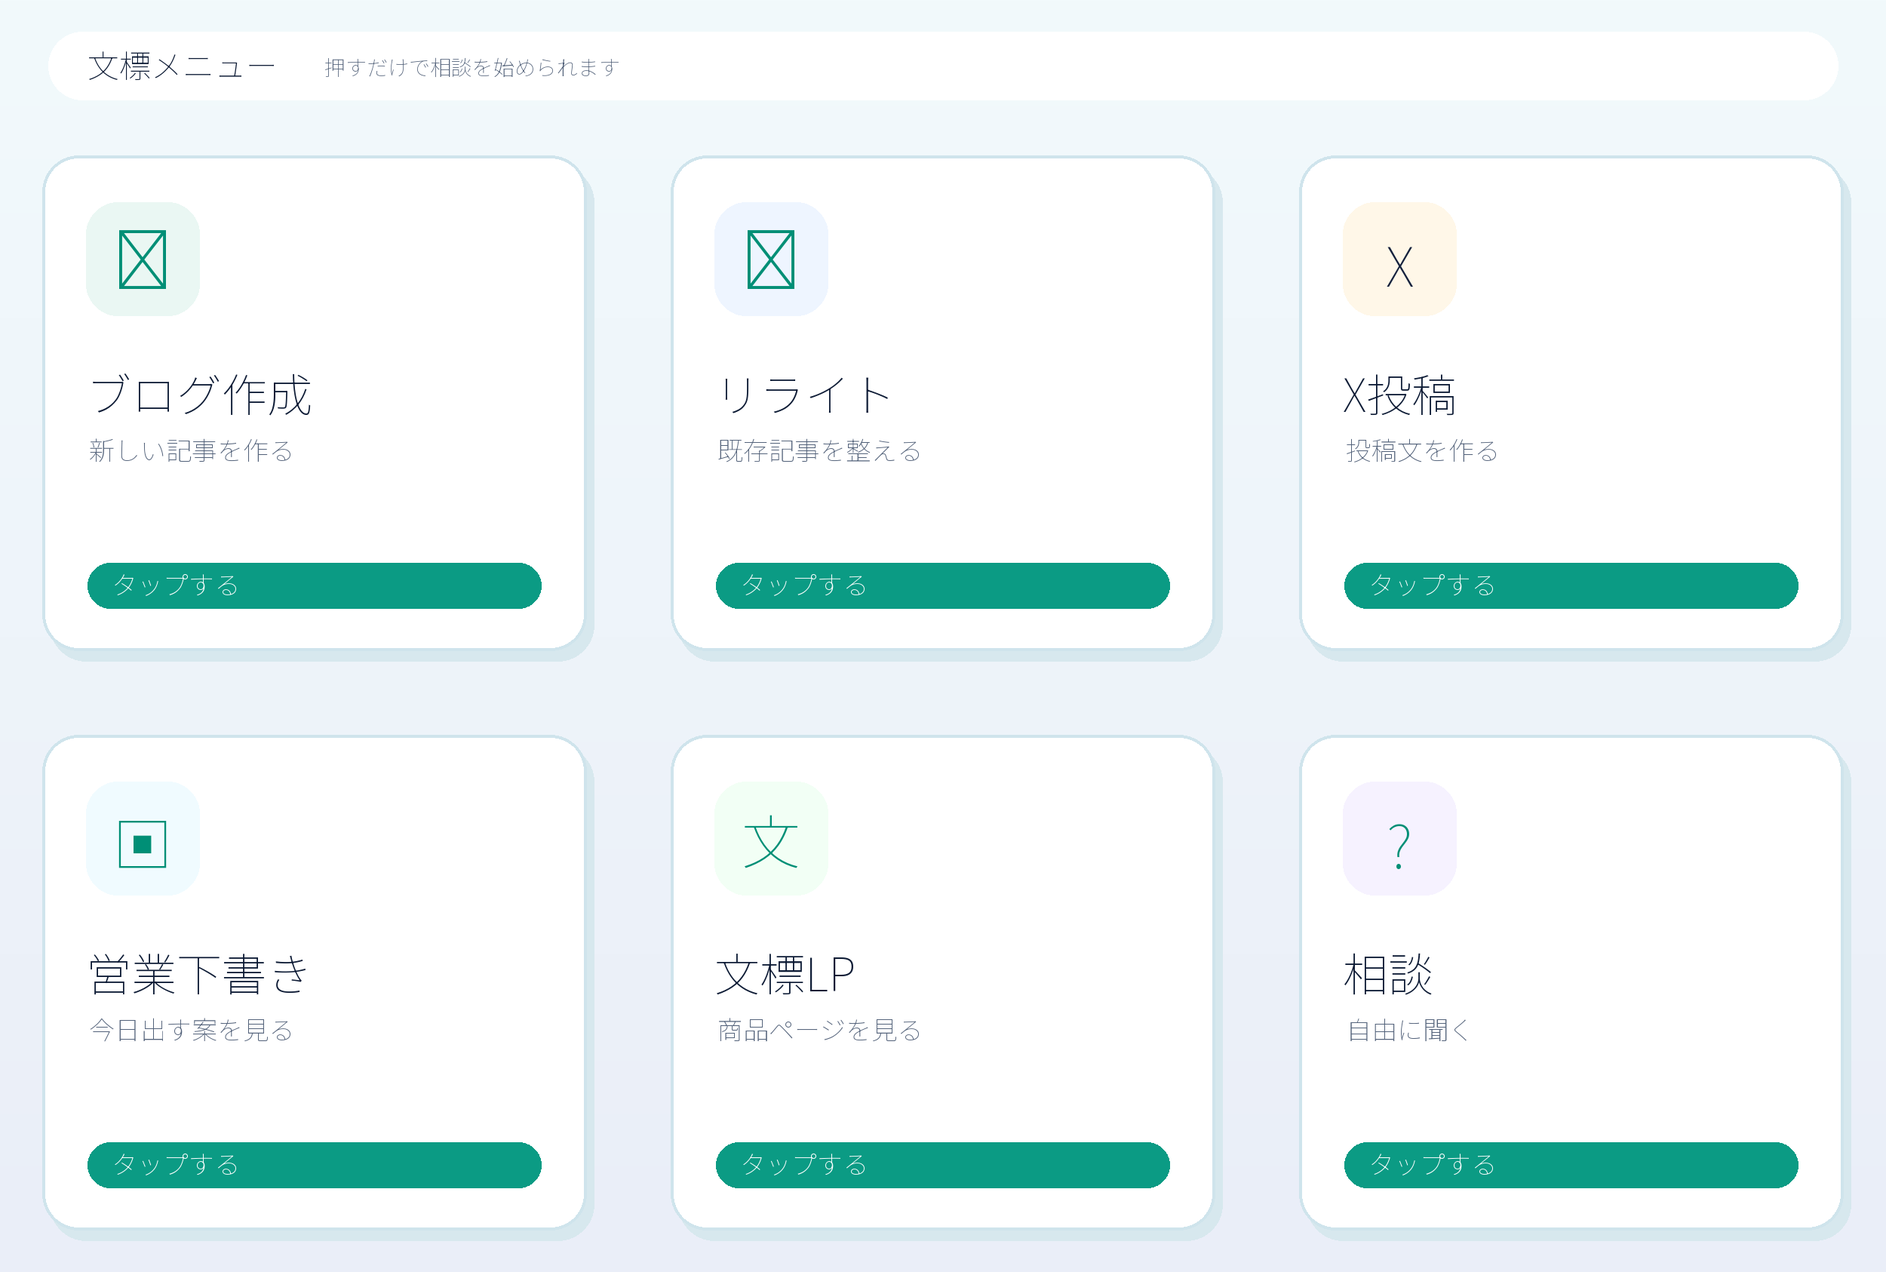
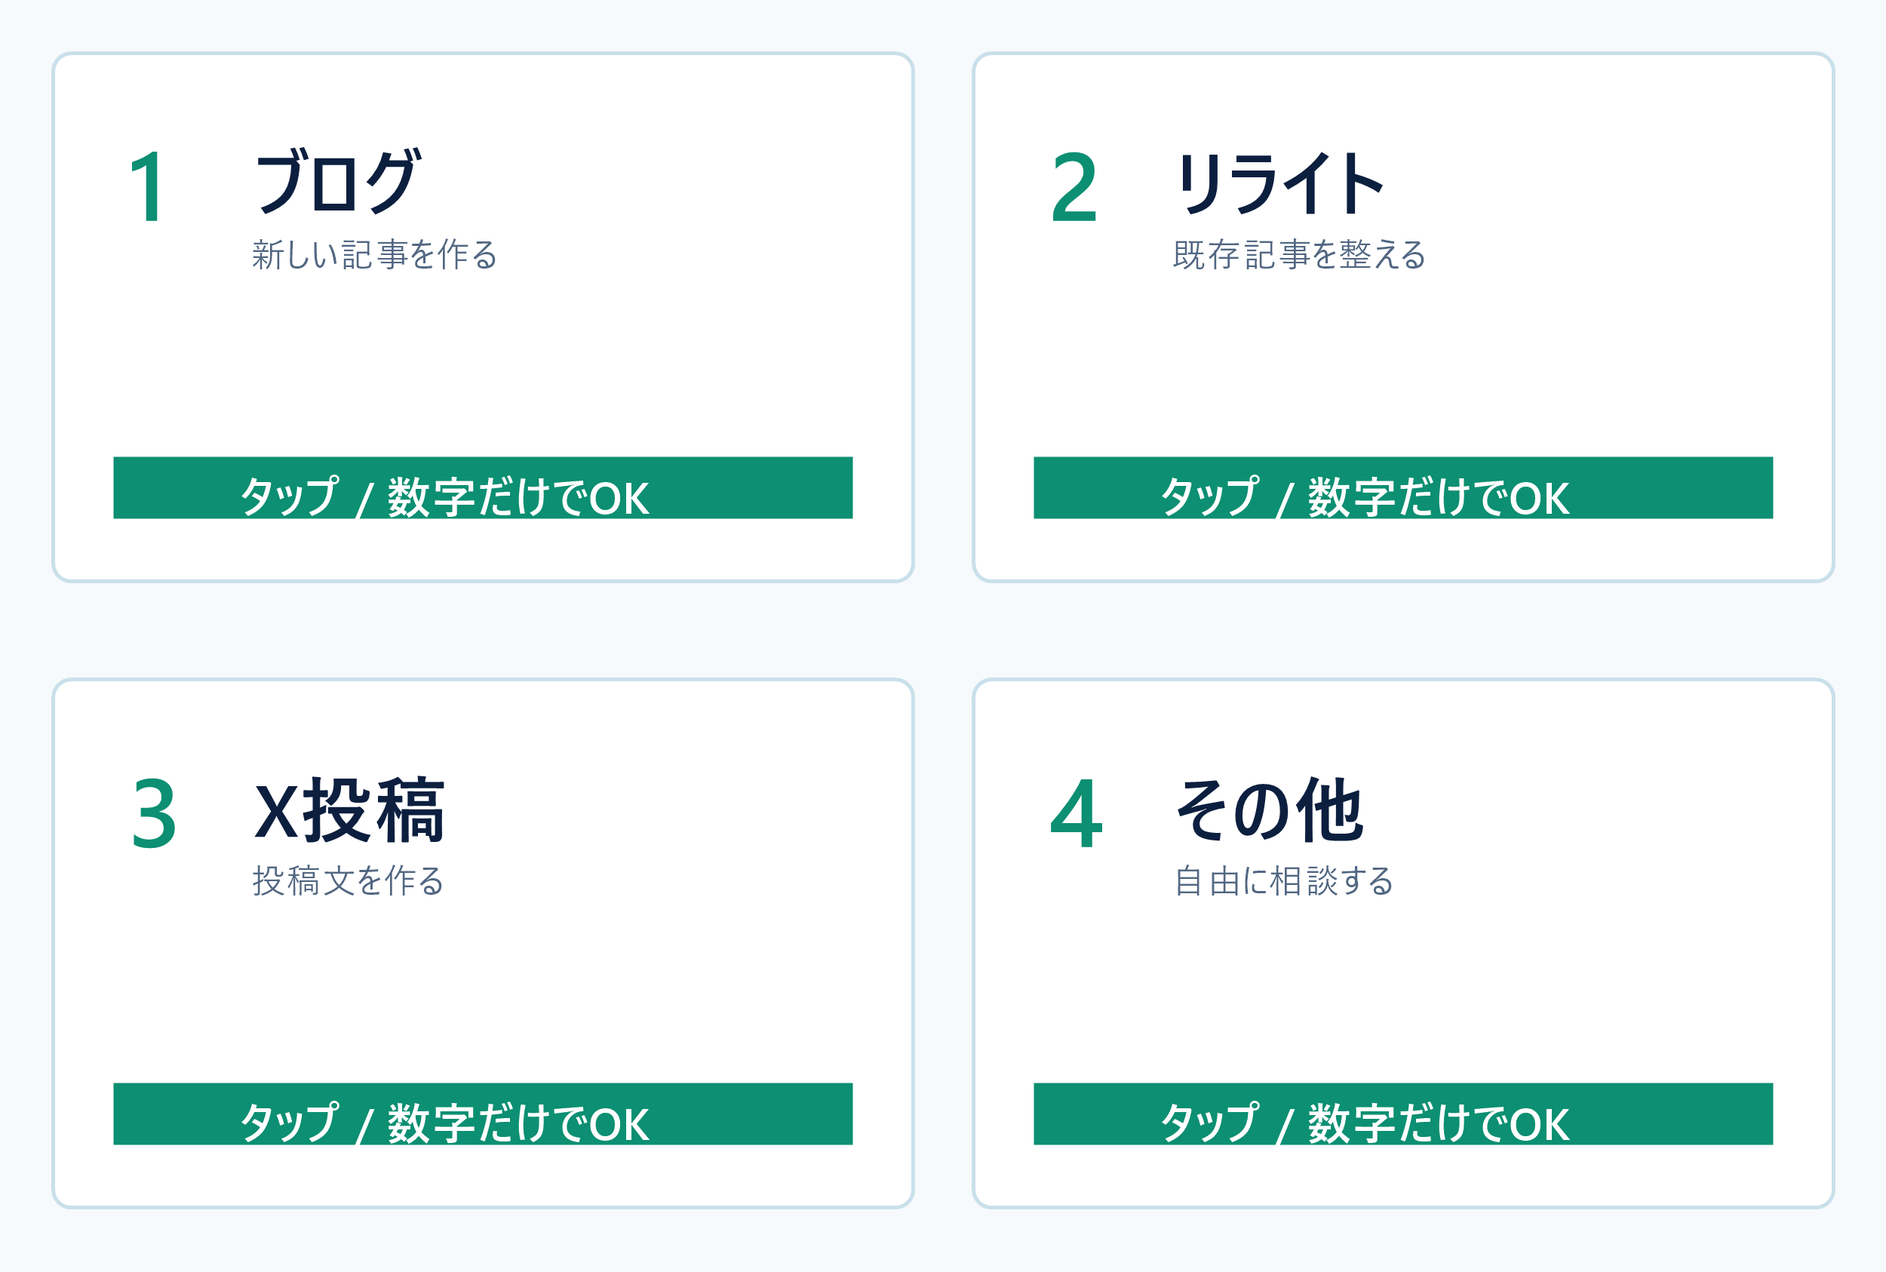
Simplify LINE menu and numbered flows

diff --git a/functions/api/line-webhook.js b/functions/api/line-webhook.js
@@ -164,6 +164,13 @@ function menuQuickReply() {
   ]);
 }
 
+function flowQuickReply(number, field, conversationText = "") {
+  return quickReply(flowOptions(number, field, conversationText).map((option, index) => ({
+    label: `${index + 1} ${option.short || option.value || option.label}`,
+    text: String(index + 1),
+  })));
+}
+
 function proceedQuickReply() {
   return quickReply([
     { label: "作業OK", text: "OK" },
@@ -189,50 +196,153 @@ function followUpQuestions(number) {
 
 const QUESTION_FLOWS = {
   1: [
-    ["記事テーマ", "記事テーマは何にする？"],
-    ["読む人", "読む人は誰にする？ 例: WordPress初心者、個人事業主、ブログ初心者"],
-    ["画像数", "画像は何個入れる？ 0 / 1 / 3 / 5 / おまかせ"],
-    ["画像タイプ", "画像タイプは？ アイキャッチ / 図解 / 操作イメージ / 比較表風 / おまかせ / なし"],
-    ["画像の雰囲気", "画像の雰囲気は？ 文標っぽく / やわらかい / 実務寄り / シンプル / おまかせ / なし"],
-    ["画像の入れ方", "画像はどこに入れる？ 冒頭だけ / セクションごと / 本文内に自然に / おまかせ / なし"],
-    ["文字量", "文字量はどうする？ 短め / 標準 / 長め"],
-    ["CTA", "最後の誘導はどれにする？ 文標購入 / デモを見る / 問い合わせ / なし"],
+    ["記事テーマ", "記事テーマを選んで。"],
+    ["読む人", "読む人を選んで。"],
+    ["画像数", "画像は何個入れる？"],
+    ["画像タイプ", "画像タイプを選んで。"],
+    ["画像の雰囲気", "画像の雰囲気を選んで。"],
+    ["画像の入れ方", "画像を入れる場所を選んで。"],
+    ["文字量", "文字量を選んで。"],
+    ["CTA", "最後の誘導を選んで。"],
   ],
   2: [
-    ["対象URLまたは記事名", "リライトする記事のURLか記事名を送って。"],
-    ["目的", "目的はどれ？ 読みやすく / 売れる導線 / SEO/AIO / 古い情報修正"],
-    ["画像追加", "画像は増やす？ なし / 1枚 / 3枚 / おまかせ"],
-    ["画像タイプ", "画像タイプは？ アイキャッチ / 図解 / 操作イメージ / 比較表風 / おまかせ / なし"],
-    ["画像の雰囲気", "画像の雰囲気は？ 文標っぽく / やわらかい / 実務寄り / シンプル / おまかせ / なし"],
-    ["残したい表現", "残したい表現はある？ なければ「なし」でOK。"],
-    ["消したい表現", "消したい表現はある？ なければ「なし」でOK。"],
+    ["対象URLまたは記事名", "リライトする記事を選んで。"],
+    ["目的", "目的を選んで。"],
+    ["画像追加", "画像は増やす？"],
+    ["画像タイプ", "画像タイプを選んで。"],
+    ["画像の雰囲気", "画像の雰囲気を選んで。"],
+    ["残したい表現", "残したい表現を選んで。"],
+    ["消したい表現", "消したい表現を選んで。"],
   ],
   3: [
-    ["宣伝したいもの", "宣伝したいものはどれ？ 文標 / ブログ / 記事メーカー / 980円レビュー"],
-    ["投稿数", "投稿数は？ 1 / 3 / 5 / 10"],
-    ["トーン", "トーンは？ やわらかめ / 強め / 実務寄り / 開発ログ風"],
-    ["画像", "画像は入れる？ なし / 1枚 / カルーセル案"],
-    ["画像タイプ", "画像タイプは？ アイキャッチ風 / 図解 / 操作イメージ / カルーセル構成 / おまかせ / なし"],
-    ["画像の雰囲気", "画像の雰囲気は？ 文標っぽく / やわらかい / 実務寄り / シンプル / おまかせ / なし"],
-    ["リンク先", "リンク先は？ トップ / 文標LP / デモ / ブログ"],
+    ["宣伝したいもの", "宣伝したいものを選んで。"],
+    ["投稿数", "投稿数を選んで。"],
+    ["トーン", "トーンを選んで。"],
+    ["画像", "画像を入れる？"],
+    ["画像タイプ", "画像タイプを選んで。"],
+    ["画像の雰囲気", "画像の雰囲気を選んで。"],
+    ["リンク先", "リンク先を選んで。"],
   ],
   4: [
-    ["やりたいこと", "やりたいことをそのまま送って。"],
-    ["目的", "目的は何？ 売上 / 分かりやすさ / SEO/AIO / デザイン / その他"],
-    ["画像", "画像は必要？ なし / 1枚 / 複数"],
-    ["画像の雰囲気", "画像の雰囲気は？ 文標っぽく / やわらかい / 実務寄り / シンプル / おまかせ / なし"],
+    ["やりたいこと", "やりたいことを選んで。"],
+    ["目的", "目的を選んで。"],
+    ["画像", "画像は必要？"],
+    ["画像の雰囲気", "画像の雰囲気を選んで。"],
   ],
 };
+
+const BLOG_TOPIC_PAGES = [
+  [
+    "AI検索時代の記事構造の作り方",
+    "無料テーマと文標の違い",
+    "比較記事テンプレートの使い方",
+    "FAQと出典を本文に置く理由",
+    "WordPressテーマ導入前チェック",
+    "商品紹介記事でよくある失敗",
+    "ブログカードの使い方",
+    "CTAを置く場所の考え方",
+    "比較表カードで違いを見せる方法",
+    "文標の初期設定ガイド",
+  ],
+  [
+    "AI文章をブログで使う時の注意点",
+    "検索順位を保証しないテーマ選び",
+    "ブログ初心者が最初に作る5記事",
+    "FAQ記事の書き方",
+    "レビュー記事の型と注意点",
+    "ランキング記事で誤解を減らす方法",
+    "出典リンクの置き方",
+    "内部リンクを増やす前に見ること",
+    "WordPressを軽く保つ考え方",
+    "文標の導線確認で見る数字",
+  ],
+  [
+    "小さなサービスLPをWordPressで作る流れ",
+    "アフィリエイト記事の比較表設計",
+    "ブログで売り込みすぎないCTAの作り方",
+    "AI検索時代の著者情報の見せ方",
+    "古い記事を直す順番",
+    "スマホで読みやすい記事構成",
+    "構造化データを入れすぎない考え方",
+    "WordPressテーマ変更前のバックアップ",
+    "文標で作る商品紹介記事",
+    "記事公開前チェックリスト",
+  ],
+];
+
+const FIELD_OPTIONS = {
+  "読む人": ["WordPress初心者", "個人事業主", "比較記事を書く人", "アフィリエイト初心者", "小さなサービス販売者", "ブログ再開組", "AI文章を使う人", "サイトを軽くしたい人", "FAQを増やしたい人", "おまかせ"],
+  "画像数": ["0枚", "1枚", "3枚", "5枚", "おまかせ"],
+  "画像タイプ": ["アイキャッチ", "図解", "操作イメージ", "比較表風", "カード風", "おまかせ", "なし"],
+  "画像の雰囲気": ["文標っぽく", "やわらかい", "実務寄り", "シンプル", "明るめ", "落ち着き", "おまかせ", "なし"],
+  "画像の入れ方": ["冒頭だけ", "セクションごと", "本文内に自然に", "最後にまとめ", "おまかせ", "なし"],
+  "文字量": ["短め", "標準", "長め", "かなり詳しく", "おまかせ"],
+  "CTA": ["文標購入", "デモを見る", "インストール方法", "問い合わせ", "ブログ一覧", "なし"],
+  "対象URLまたは記事名": ["文標導入前チェック", "無料テーマと文標の違い", "AI検索向けFAQと出典", "比較記事テンプレート", "商品ページ失敗例", "記事メーカーの使い方", "980円レビューサンプル", "ブログ一覧から選ぶ", "おまかせ", "その他URL入力"],
+  "目的": ["売上", "分かりやすさ", "SEO/AIO", "デザイン", "古い情報修正", "読みやすく", "導線改善", "おまかせ"],
+  "画像追加": ["なし", "1枚", "3枚", "おまかせ"],
+  "残したい表現": ["今の見出し", "価格訴求", "AI検索時代の表現", "文標の名前", "やわらかい文体", "なし", "その他入力"],
+  "消したい表現": ["強すぎる効果保証", "売り手目線", "古い商品名", "長すぎる説明", "なし", "その他入力"],
+  "宣伝したいもの": ["文標", "ブログ", "記事メーカー", "980円レビュー", "アフィリエイト", "今日の更新", "おまかせ"],
+  "投稿数": ["1投稿", "3投稿", "5投稿", "10投稿", "スレッド案", "おまかせ"],
+  "トーン": ["やわらかめ", "強め", "実務寄り", "開発ログ風", "短く", "共感寄り", "おまかせ"],
+  "画像": ["なし", "1枚", "3枚", "カルーセル案", "おまかせ"],
+  "リンク先": ["トップ", "文標LP", "デモ", "インストール方法", "ブログ", "問い合わせ", "おまかせ"],
+  "やりたいこと": ["サイト修正", "文標テーマ修正", "ブログ相談", "X投稿相談", "売り方相談", "不具合確認", "速度/SEO確認", "その他入力"],
+};
+
+function optionPage(body, field) {
+  let page = 1;
+  for (const match of body.matchAll(/<!-- line-option-page:([^:]+):(\d+) -->/g)) {
+    if (match[1] === field) page = Number(match[2]) || 1;
+  }
+  return page;
+}
+
+function optionLabel(value) {
+  return String(value).replace(/[。、「」]/g, "").slice(0, 14);
+}
+
+function flowOptions(number, field, conversationText = "") {
+  if (number === 1 && field === "記事テーマ") {
+    const page = optionPage(conversationText, field);
+    const topics = BLOG_TOPIC_PAGES[(page - 1) % BLOG_TOPIC_PAGES.length];
+    return [
+      ...topics.map((topic) => ({ value: topic, short: optionLabel(topic) })),
+      { value: "別案を10個見る", short: "別案10個", action: "more" },
+      { value: "その他入力", short: "その他入力", action: "custom" },
+      { value: "キャンセル", short: "キャンセル", action: "cancel" },
+    ];
+  }
+
+  const values = FIELD_OPTIONS[field] || ["おまかせ", "その他入力"];
+  const items = values.map((value) => {
+    const action = /その他|入力/.test(value) ? "custom" : "";
+    return { value, short: optionLabel(value), action };
+  });
+  return [...items, { value: "キャンセル", short: "キャンセル", action: "cancel" }];
+}
+
+function formatNumberedOptions(options) {
+  return options.map((option, index) => `${index + 1}. ${option.value}`).join("\n");
+}
+
+function formatFlowQuestion(number, field, question, step, total, conversationText = "") {
+  const options = flowOptions(number, field, conversationText);
+  return [
+    `質問 ${step}/${total}`,
+    question,
+    "",
+    formatNumberedOptions(options),
+    "",
+    "番号だけで選べます。",
+  ].join("\n");
+}
 
 function firstStepQuestion(number) {
   const flow = QUESTION_FLOWS[number];
   if (!flow) return "";
-  return [
-    `質問 1/${flow.length}`,
-    flow[0][1],
-    "",
-    "途中でやめるなら「キャンセル」と送って。",
-  ].join("\n");
+  return formatFlowQuestion(number, flow[0][0], flow[0][1], 1, flow.length);
 }
 
 function selectedFlowNumber(body = "") {
@@ -262,6 +372,98 @@ function nextFlowQuestion(body = "") {
     question: flow[index][1],
     step: index + 1,
     total: flow.length,
+  };
+}
+
+function awaitingCustomField(body, field) {
+  return body.includes(`<!-- line-await-custom:${field} -->`) && !answeredFields(body).has(field);
+}
+
+function selectedFlowAnswer(text, flowQuestion, conversationText) {
+  if (awaitingCustomField(conversationText, flowQuestion.field)) {
+    return { value: text.trim(), action: "" };
+  }
+
+  const options = flowOptions(flowQuestion.number, flowQuestion.field, conversationText);
+  const match = text.trim().match(/^(\d{1,2})(?:\s*(?:番|で|にする|お願い|おねがい|進めて|すすめて|やって|ok|OK|でOK))?$/);
+  if (match) {
+    const index = Number(match[1]) - 1;
+    return options[index] || null;
+  }
+
+  const compact = compactText(text);
+  return options.find((option) => compactText(option.value) === compact || compactText(option.short || "") === compact) || null;
+}
+
+async function answerFlowQuestion(env, issue, flowQuestion, text, conversationText) {
+  const selected = selectedFlowAnswer(text, flowQuestion, conversationText);
+  if (!selected) {
+    return {
+      issue,
+      mode: "質問中",
+      message: formatFlowQuestion(flowQuestion.number, flowQuestion.field, flowQuestion.question, flowQuestion.step, flowQuestion.total, conversationText),
+      quickReply: flowQuickReply(flowQuestion.number, flowQuestion.field, conversationText),
+    };
+  }
+
+  if (selected.action === "cancel") {
+    await commentOnIssue(env, issue.number, "LINEでキャンセルされました。");
+    return {
+      issue,
+      mode: "キャンセル",
+      message: "キャンセルしました。もう一度始める時はメニューから選んで。",
+      quickReply: menuQuickReply(),
+    };
+  }
+
+  if (selected.action === "more") {
+    const nextPage = optionPage(conversationText, flowQuestion.field) + 1;
+    const nextText = `${conversationText}\n<!-- line-option-page:${flowQuestion.field}:${nextPage} -->`;
+    await commentOnIssue(env, issue.number, [
+      `LINEで ${flowQuestion.field} の別案が選ばれました。`,
+      `<!-- line-option-page:${flowQuestion.field}:${nextPage} -->`,
+    ].join("\n"));
+    return {
+      issue,
+      mode: "別案",
+      message: formatFlowQuestion(flowQuestion.number, flowQuestion.field, flowQuestion.question, flowQuestion.step, flowQuestion.total, nextText),
+      quickReply: flowQuickReply(flowQuestion.number, flowQuestion.field, nextText),
+    };
+  }
+
+  if (selected.action === "custom") {
+    await commentOnIssue(env, issue.number, `<!-- line-await-custom:${flowQuestion.field} -->`);
+    return {
+      issue,
+      mode: "自由入力待ち",
+      message: `${flowQuestion.field}を自由に送って。`,
+      quickReply: quickReply([{ label: "キャンセル", text: "キャンセル" }]),
+    };
+  }
+
+  await commentOnIssue(env, issue.number, [
+    `**${flowQuestion.field}**: ${selected.value}`,
+  ].join("\n"));
+  const nextConversationText = `${conversationText}\n\n**${flowQuestion.field}**: ${selected.value}`;
+  const nextQuestion = nextFlowQuestion(nextConversationText);
+  if (nextQuestion?.done) {
+    return {
+      issue,
+      mode: "質問完了",
+      message: [
+        "必要な内容がそろいました。",
+        issue.html_url,
+        "",
+        "PRまで進めるなら「OK」「進めて」「お願い」のどれかで大丈夫です。",
+      ].join("\n"),
+      quickReply: proceedQuickReply(),
+    };
+  }
+  return {
+    issue,
+    mode: "質問中",
+    message: formatFlowQuestion(nextQuestion.number, nextQuestion.field, nextQuestion.question, nextQuestion.step, nextQuestion.total, nextConversationText),
+    quickReply: flowQuickReply(nextQuestion.number, nextQuestion.field, nextConversationText),
   };
 }
 
@@ -472,6 +674,23 @@ async function handleChoiceConversation(text, toId, env) {
 
   if (!latestIssue) return null;
 
+  const conversationText = await issueConversationText(env, latestIssue);
+  const flowQuestion = nextFlowQuestion(conversationText);
+
+  if (text.trim() === "キャンセル") {
+    await commentOnIssue(env, latestIssue.number, "LINEでキャンセルされました。");
+    return {
+      issue: latestIssue,
+      mode: "キャンセル",
+      message: "キャンセルしました。もう一度始める時はメニューから選んで。",
+      quickReply: menuQuickReply(),
+    };
+  }
+
+  if (flowQuestion && !flowQuestion.done && !aiWork) {
+    return answerFlowQuestion(env, latestIssue, flowQuestion, text, conversationText);
+  }
+
   if (wantsMoreChoices(text) && !aiWork) {
     const body = [
       "LINEでできることはこの4つです。",
@@ -489,7 +708,7 @@ async function handleChoiceConversation(text, toId, env) {
     };
   }
 
-  if (number) {
+  if (number && !flowQuestion) {
     const selected = optionText(number);
     if (!selected) return null;
     const followUp = followUpQuestions(number);
@@ -512,7 +731,7 @@ async function handleChoiceConversation(text, toId, env) {
           "",
           followUp || "PRまで進めるなら「OK」「進めて」「お願い」のどれかで大丈夫です。",
         ].join("\n"),
-        quickReply: followUp ? questionQuickReply() : proceedQuickReply(),
+        quickReply: followUp ? flowQuickReply(number, QUESTION_FLOWS[number][0][0]) : proceedQuickReply(),
       };
     }
   }
@@ -550,49 +769,6 @@ async function handleChoiceConversation(text, toId, env) {
   }
 
   if (!wantsChoiceMenu(text)) {
-    if (text.trim() === "キャンセル") {
-      await commentOnIssue(env, latestIssue.number, "LINEでキャンセルされました。");
-      return {
-        issue: latestIssue,
-        mode: "キャンセル",
-        message: "キャンセルしました。もう一度始める時は「相談」か「メニュー」と送って。",
-        quickReply: menuQuickReply(),
-      };
-    }
-
-    const conversationText = await issueConversationText(env, latestIssue);
-    const flowQuestion = nextFlowQuestion(conversationText);
-    if (flowQuestion && !flowQuestion.done) {
-      await commentOnIssue(env, latestIssue.number, [
-        `**${flowQuestion.field}**: ${text.trim()}`,
-      ].join("\n"));
-      const nextQuestion = nextFlowQuestion(`${conversationText}\n\n**${flowQuestion.field}**: ${text.trim()}`);
-      if (nextQuestion?.done) {
-        return {
-          issue: latestIssue,
-          mode: "質問完了",
-          message: [
-            "必要な内容がそろいました。",
-            latestIssue.html_url,
-            "",
-            "PRまで進めるなら「OK」「進めて」「お願い」のどれかで大丈夫です。",
-          ].join("\n"),
-          quickReply: proceedQuickReply(),
-        };
-      }
-      return {
-        issue: latestIssue,
-        mode: "質問中",
-        message: [
-          `質問 ${nextQuestion.step}/${nextQuestion.total}`,
-          nextQuestion.question,
-          "",
-          "途中でやめるなら「キャンセル」と送って。",
-        ].join("\n"),
-        quickReply: questionQuickReply(),
-      };
-    }
-
     await commentOnIssue(env, latestIssue.number, [
       "LINEから追記されました。",
       "",
@@ -726,7 +902,7 @@ async function handleTextMessage(event, toId, env) {
           followUp || "PRまで進めるなら「OK」「進めて」「お願い」のどれかで大丈夫です。",
         ].join("\n"),
         env,
-        followUp ? questionQuickReply() : proceedQuickReply(),
+        followUp ? flowQuickReply(directNumber, QUESTION_FLOWS[directNumber][0][0]) : proceedQuickReply(),
       );
       return;
     }
